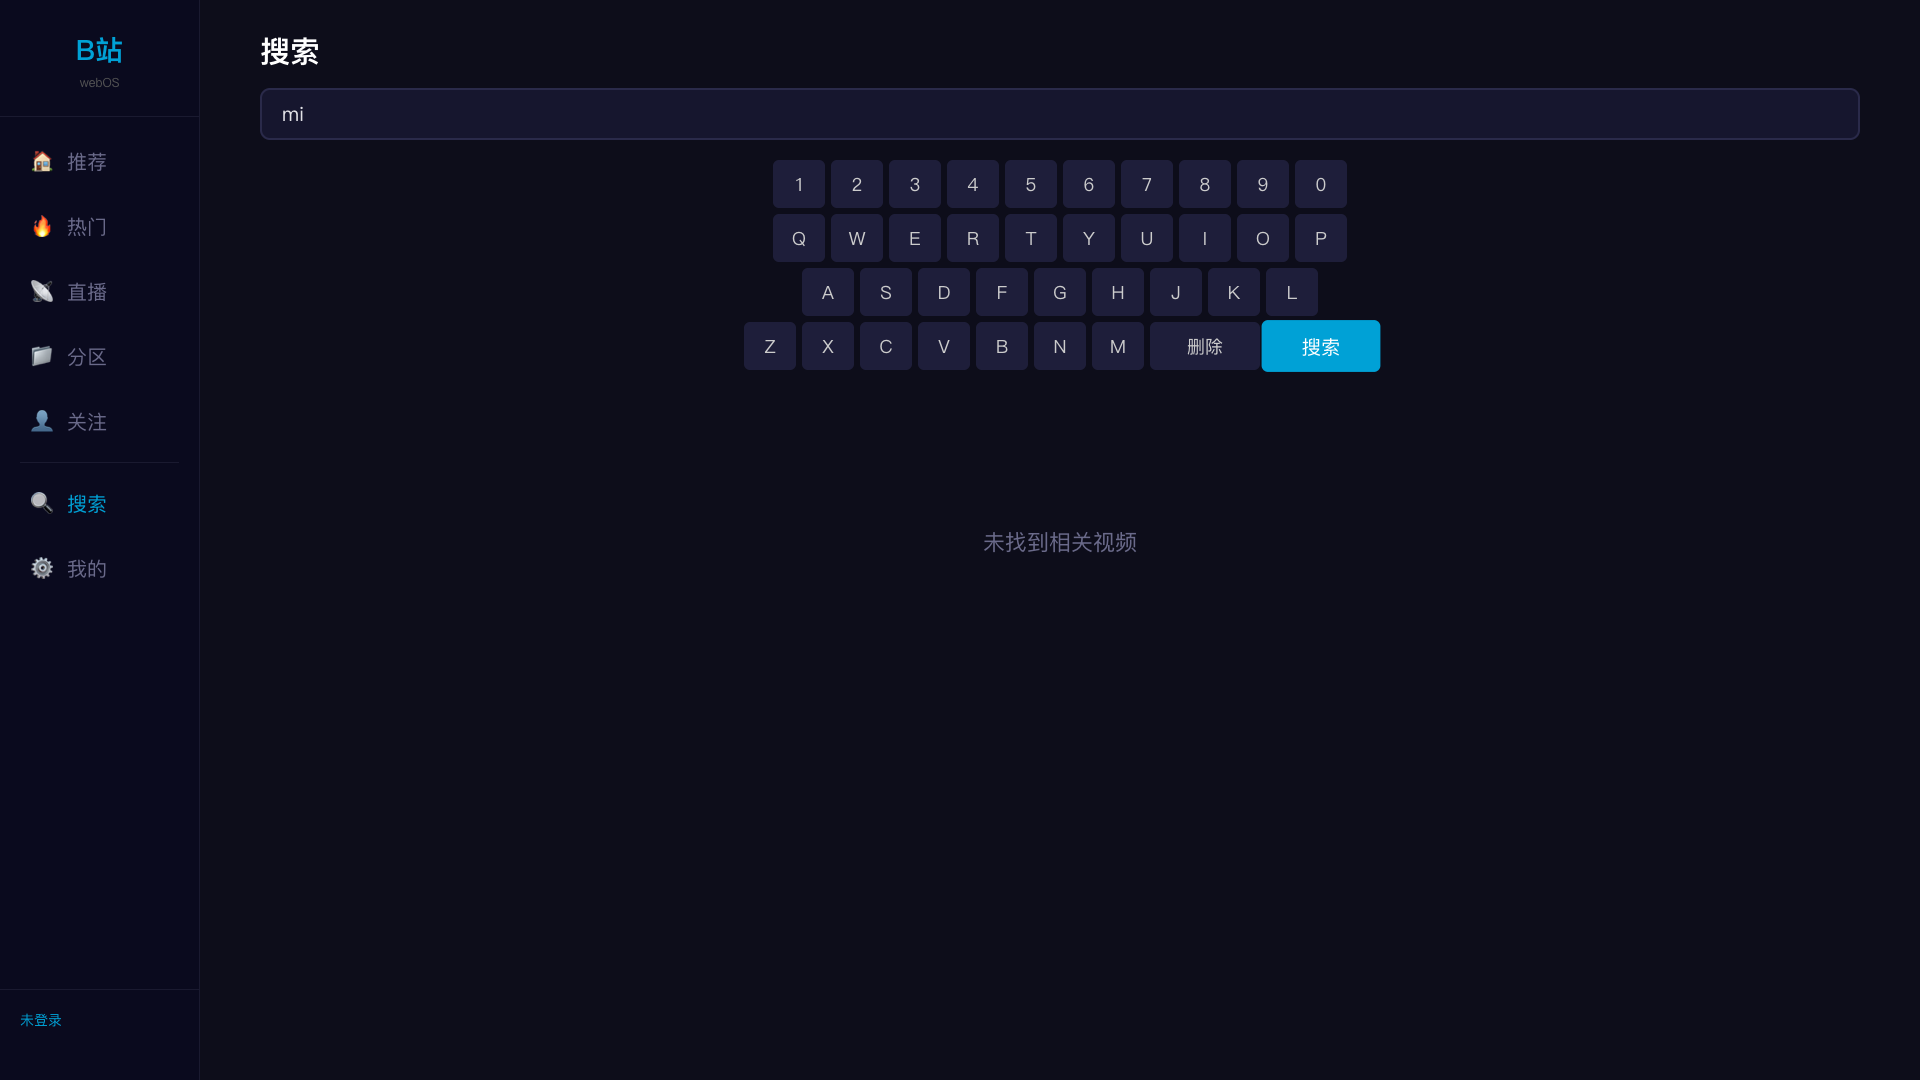
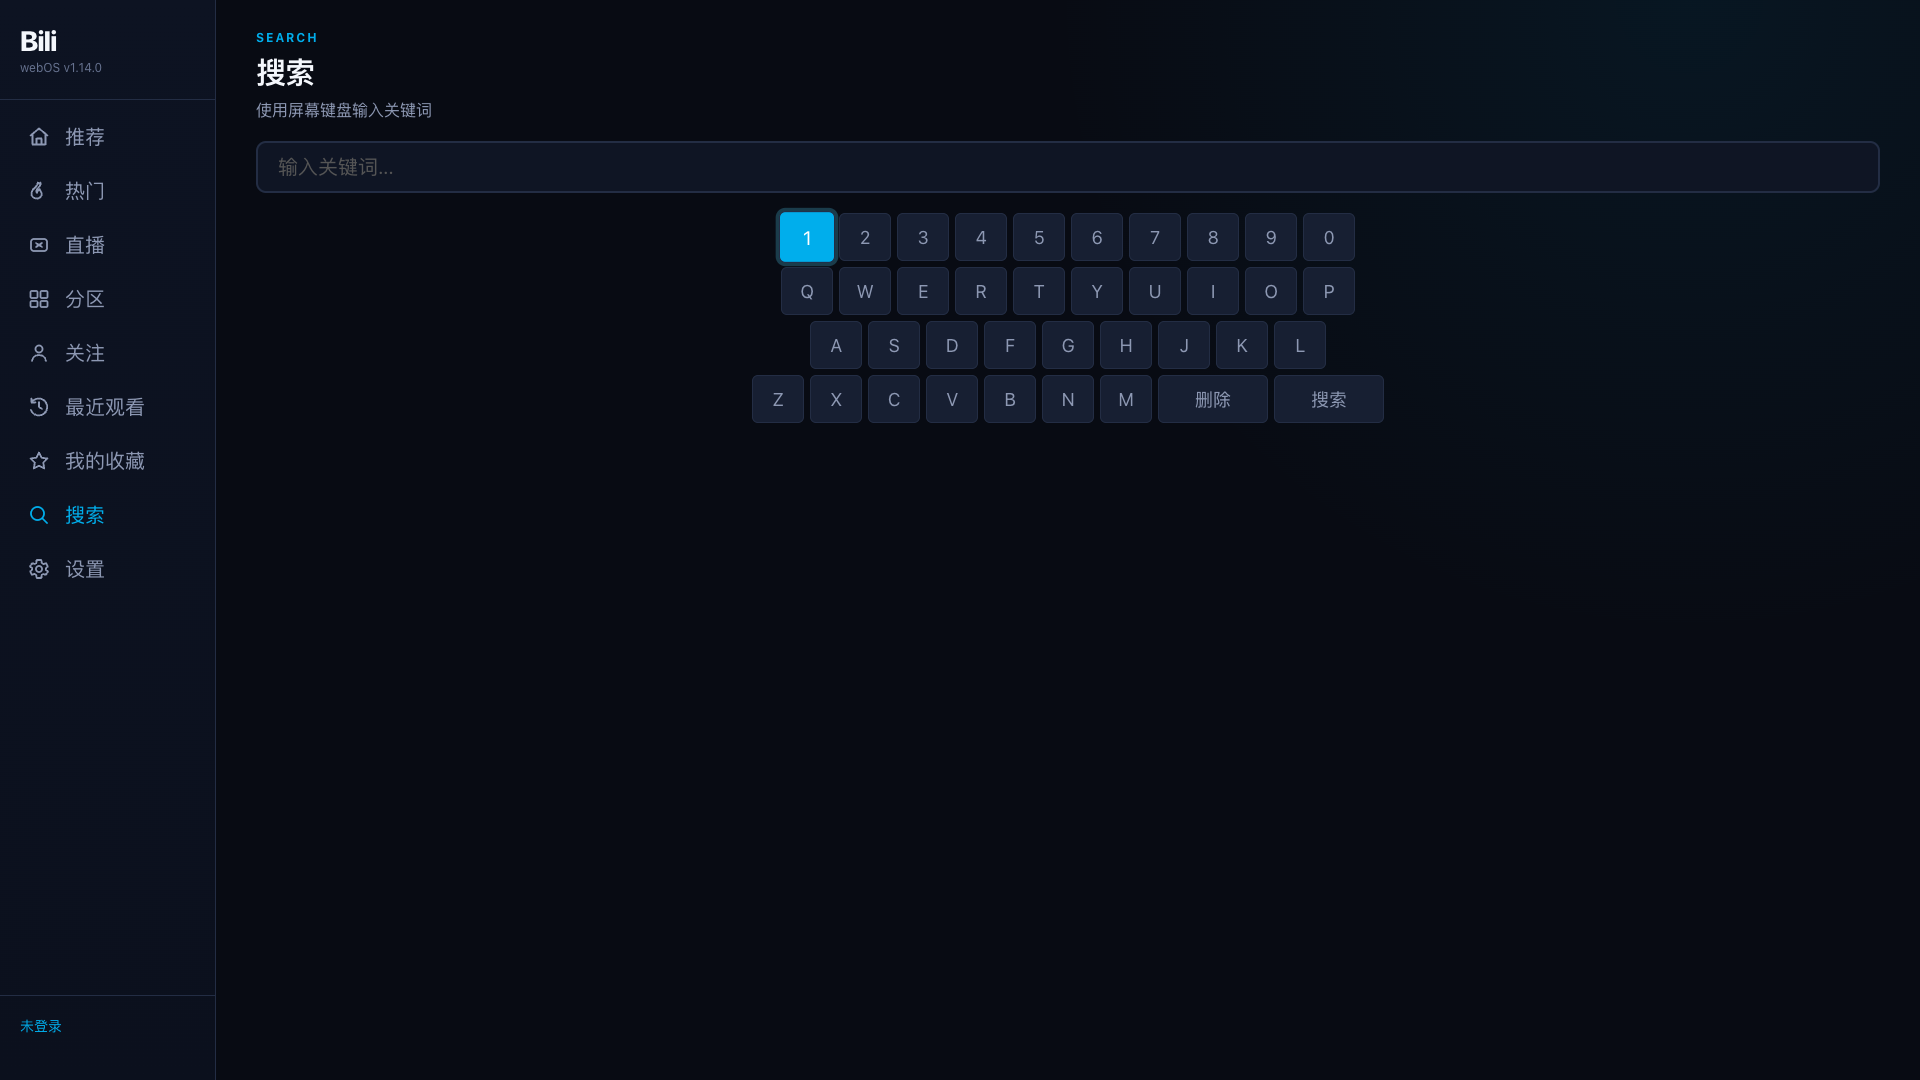
docs: refresh UI screenshots

diff --git a/README.md b/README.md
@@ -20,13 +20,19 @@ A third-party Bilibili client built for LG webOS TVs.
 
 ## Screenshots
 
-| Home (320px) | Player (320px) |
-| --- | --- |
-| <img src="docs/screenshots/home.jpg" width="320" alt="Home screen"> | <img src="docs/screenshots/player.jpg" width="320" alt="Player screen"> |
+The TV-first interface uses high-contrast D-pad focus states, natural grid scrolling, and a consistent dark visual system across browsing and account pages.
 
-| Search (320px) | Scrub Preview (320px) |
+| Home | Search |
 | --- | --- |
-| <img src="docs/screenshots/search.png" width="320" alt="Search screen"> | <img src="docs/screenshots/scrub-preview.png" width="320" alt="Scrub preview thumbnails"> |
+| <img src="docs/screenshots/home.jpg" width="320" alt="TV home screen with a focused video card"> | <img src="docs/screenshots/search.png" width="320" alt="TV search screen with the on-screen keyboard"> |
+
+| Settings | QR Login |
+| --- | --- |
+| <img src="docs/screenshots/settings.png" width="320" alt="TV settings screen with a focused preference row"> | <img src="docs/screenshots/login.png" width="320" alt="QR code login screen"> |
+
+| Player | Scrub Preview |
+| --- | --- |
+| <img src="docs/screenshots/player.jpg" width="320" alt="Player screen"> | <img src="docs/screenshots/scrub-preview.png" width="320" alt="Scrub preview thumbnails"> |
 
 ## Architecture
 